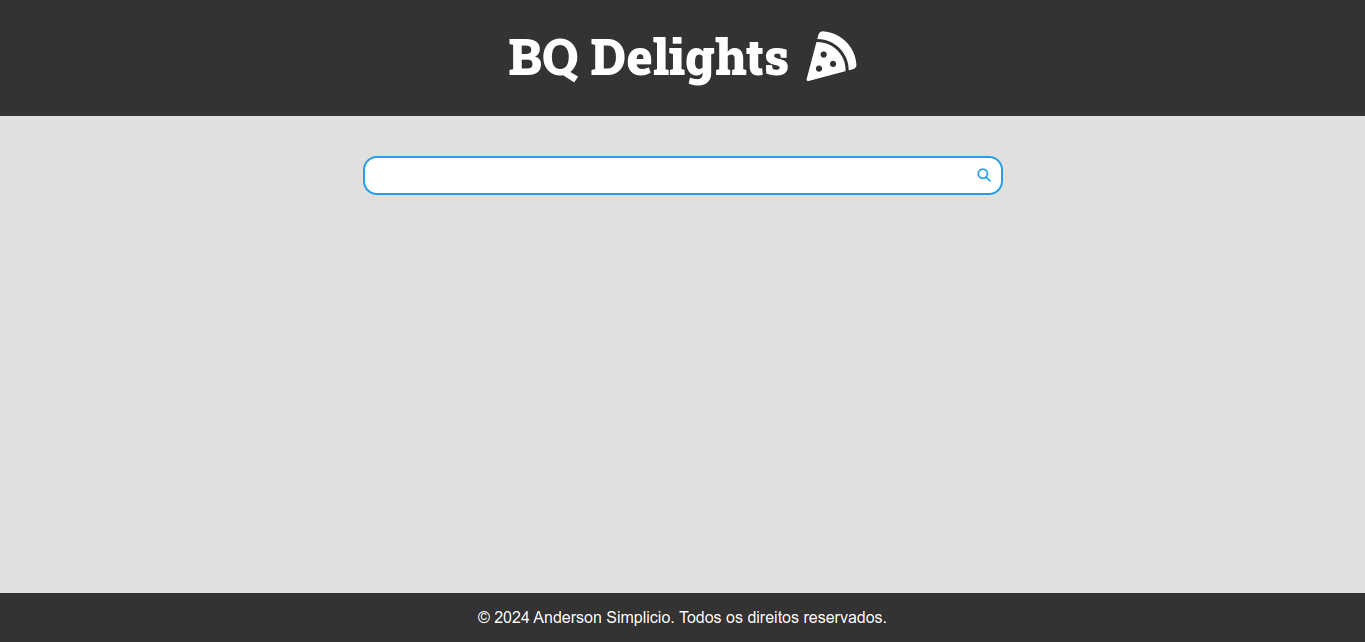
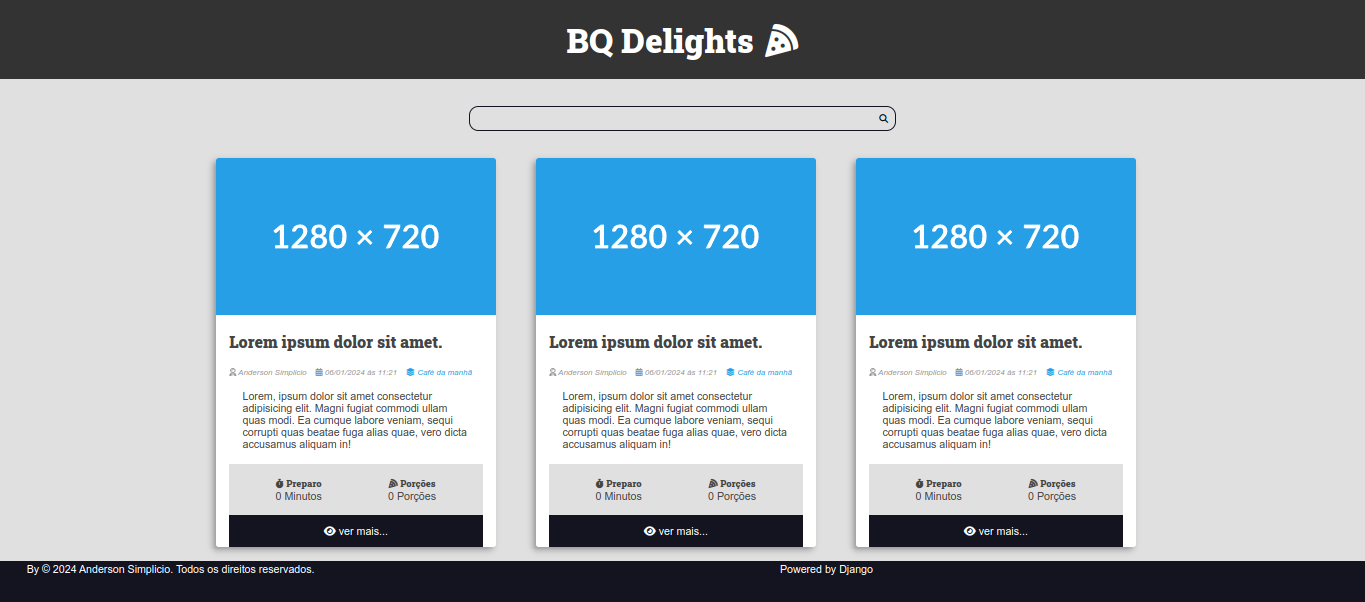
Buscador e Card de Produto

diff --git a/projeto/base_templates/global/partials/head.html b/projeto/base_templates/global/partials/head.html
@@ -82,6 +82,7 @@
             padding: 0;
             background: var(--color-gray-1);
             font-size:1.6rem;
+            color:var(--color-dark-text);
 
         }
 
@@ -97,15 +98,7 @@
             text-align: center;
         }
 
-        footer {
-            background-color: #333;
-            color: #fff;
-            text-align: center;
-            padding: 1em;
-            position: fixed;
-            bottom: 0;
-            width: 100%;
-        }
+       
         h1,h2,h3,h4,h5,h6 {
             font-family: var(--font-headings);
         }
@@ -174,6 +167,114 @@
         }
         .search-form:focus-within .search-button{
             color: var(--color-primary);
+        }
+        .main-content{
+            padding-top: 0;
+        }
+        .main-content-list{
+            display: grid;
+            grid-template-columns: repeat(auto-fit,minmax(320px,1fr));
+            gap:var(--spacing-gutter-large);
+        }
+        .product{
+            background: var(--color-white);
+            box-shadow: -5px 5px 10px rgba(0,0,0,.3);
+            transition: all 300ms ease-in-out;
+            transform: scale(1);
+            border-radius: .4rem;
+            overflow: hidden;
+        }
+        .product img{
+            max-width: 100%;
+        }
+        .product-list-item{
+            max-width: 42rem;
+        }
+        .product-list-item:hover{
+            transform: scale(1.02);
+            box-shadow: -8px 8px 18px rgba(0,0,0,.25);
+        }
+        .product-title-container{
+            padding: var(--spacing-gutter-medium);
+            padding-bottom: 2rem;
+        }
+        .product-author{
+            padding: 0 var(--spacing-gutter-medium);
+        }
+        .product-content {
+            padding: var(--spacing-gutter-medium);
+            padding-top: 2rem;
+        }
+        .product-author-item {
+            color: var(--color-gray-4);
+            margin-right: 1rem;
+            font-style: italic;
+            font-size: 1.2rem;
+        }
+
+        .product-author a {
+            color: var(--color-primary);
+            transition: all 300ms ease-in-out;
+            text-decoration: none;
+        }
+
+        .product-author a:hover {
+            color: var(--color-primary-dark);
+        }
+
+
+        .product-meta-container {
+            display: flex;
+            flex-flow: row wrap;
+            padding: var(--spacing-gutter-medium);
+            background: var(--color-gray-1);
+        }
+        .product-footer a:hover {
+            filter: brightness(2);
+        }
+
+        .product-meta {
+            display: flex;
+            flex-flow: column nowrap;
+            flex-shrink: 1;
+            flex-grow: 1;
+            text-align: center;
+        }
+        .product-meta-title {
+            font-size: 1.4rem;
+        }
+
+       .product-footer a{
+            background: var(--color-primary-dark);
+            display: block;
+            color:var(--color-white);
+            text-decoration: none;
+            text-align: center;
+            padding: 1.5rem var(--spacing-gutter-medium);
+            transition: all 300ms ease-in-out;
+       }
+       .product-footer a:hover{
+        filter: brightness(2);
+       }
+
+       .main-footer {
+            display: flex;
+            align-items: center;
+            justify-content: space-between;
+            background: var(--color-primary-dark);
+            color: var(--color-white);
+            padding: var(--spacing-gutter-large);
+            padding-top: 0.4rem;
+        }
+
+        .main-footer a {
+            color: var(--color-white);
+            text-decoration: none;
+            transition: all 300ms ease-in-out;
+        }
+
+        .main-footer a:hover {
+            filter: brightness(.8);
         }
     </style>
 </head>

diff --git a/projeto/base_templates/global/partials/produto.html b/projeto/base_templates/global/partials/produto.html
@@ -1,0 +1,51 @@
+<div class="product product-list-item">
+    <div class="product-cover">
+        <img src="https://placehold.co/1280x720/269fe6/FFFF" alt="">
+        <div class="product-title-container">
+            <h2 class="product-title">Lorem ipsum dolor sit amet.</h2>
+        </div>
+        <div class="product-author">
+                <span class="product-author-item">
+                    <i class="fa-solid fa-user-astronaut"></i>
+                    Anderson Simplicio
+                </span>
+                <span class="product-author-item">
+                    <i class="fas fa-calendar-alt"></i>
+                    06/01/2024 às 11:21
+                </span>
+                <span class="product-author-item">
+                    <a href="#">
+                        <i class="fas fa-layer-group"></i>
+                        <span>Café da manhã</span>
+                    </a>
+                </span>
+    
+                <div class="product-content">
+                    <p>Lorem, ipsum dolor sit amet consectetur adipisicing elit. Magni fugiat commodi ullam quas modi.
+                        Ea cumque labore veniam, sequi corrupti quas beatae fuga alias quae, vero dicta accusamus
+                        aliquam in!</p>
+                </div>
+                <div class="product-meta-container">
+                    <div class="product-meta product-preparation">
+                        <h3 class="product-meta-title"><i class="fas fa-stopwatch"></i> Preparo</h3>
+                        <div class="product-meta-text">
+                            0 Minutos
+                        </div>
+                    </div>
+                    <div class="product-meta product-servings">
+                        <h3 class="product-meta-title"><i class="fas fa-pizza-slice"></i> Porções</h3>
+                        <div class="product-meta-text">
+                            0 Porções
+                        </div>
+                    </div>
+                </div>
+
+                <footer class="product-footer">
+                    <a class="product-read-more button button-dark button-full-width" href="#">
+                        <i class="fas fa-eye"></i>
+                        <span>ver mais...</span>
+                    </a>
+                </footer>
+        </div>
+    </div>
+</div><!--Produto 1-->

diff --git a/projeto/apps/receitas/templates/home/home.html b/projeto/apps/receitas/templates/home/home.html
@@ -1,13 +1,13 @@
 {% include 'global/partials/head.html' %}
 {% include 'global/partials/header.html' %}
-<section class="search-container">
-    <div class="container">
-        <form action="" class="search-form">
-            <input type="search" class="search-input" name="search">
-            <button type="submit" class="search-button"><i class="fa-solid fa-magnifying-glass"></i></button>
-        </form>
-    </div>
-       
-</section>
+{% include 'global/partials/search.html' %}
+
+<main class="main-content-container">
+    <div class="main-content main-content-list container">
+        {% include 'global/partials/produto.html' %}        
+        {% include 'global/partials/produto.html' %}  
+        {% include 'global/partials/produto.html' %}  
+    </div><!--main-content-->
+</main>
 
 {% include 'global/partials/footer.html' %}

diff --git a/projeto/base_templates/global/partials/footer.html b/projeto/base_templates/global/partials/footer.html
@@ -1,5 +1,15 @@
 <footer>
-    <p>&copy; 2024 {{ name }}. Todos os direitos reservados.</p>
+    
+    <footer class="main-footer">
+        <div class="developer">
+          <a href="https://andersonsimplicio.github.io/works/" target="_blank" rel="noreferrer noopener">By &copy; 2024 {{ name }}. Todos os direitos reservados.</a>
+        </div>
+      
+        <div class="powered">
+          <a href="https://www.djangoproject.com/" target="_blank" rel="noreferrer noopener">Powered by Django</a>
+        </div>
+        <p></p>
+      </footer>
 </footer>
 
 </body>

diff --git a/projeto/base_templates/global/partials/search.html b/projeto/base_templates/global/partials/search.html
@@ -1,0 +1,9 @@
+<section class="search-container">
+    <div class="container">
+        <form action="" class="search-form">
+            <input type="search" class="search-input" name="search">
+            <button type="submit" class="search-button"><i class="fa-solid fa-magnifying-glass"></i></button>
+        </form>
+    </div>
+       
+</section>
